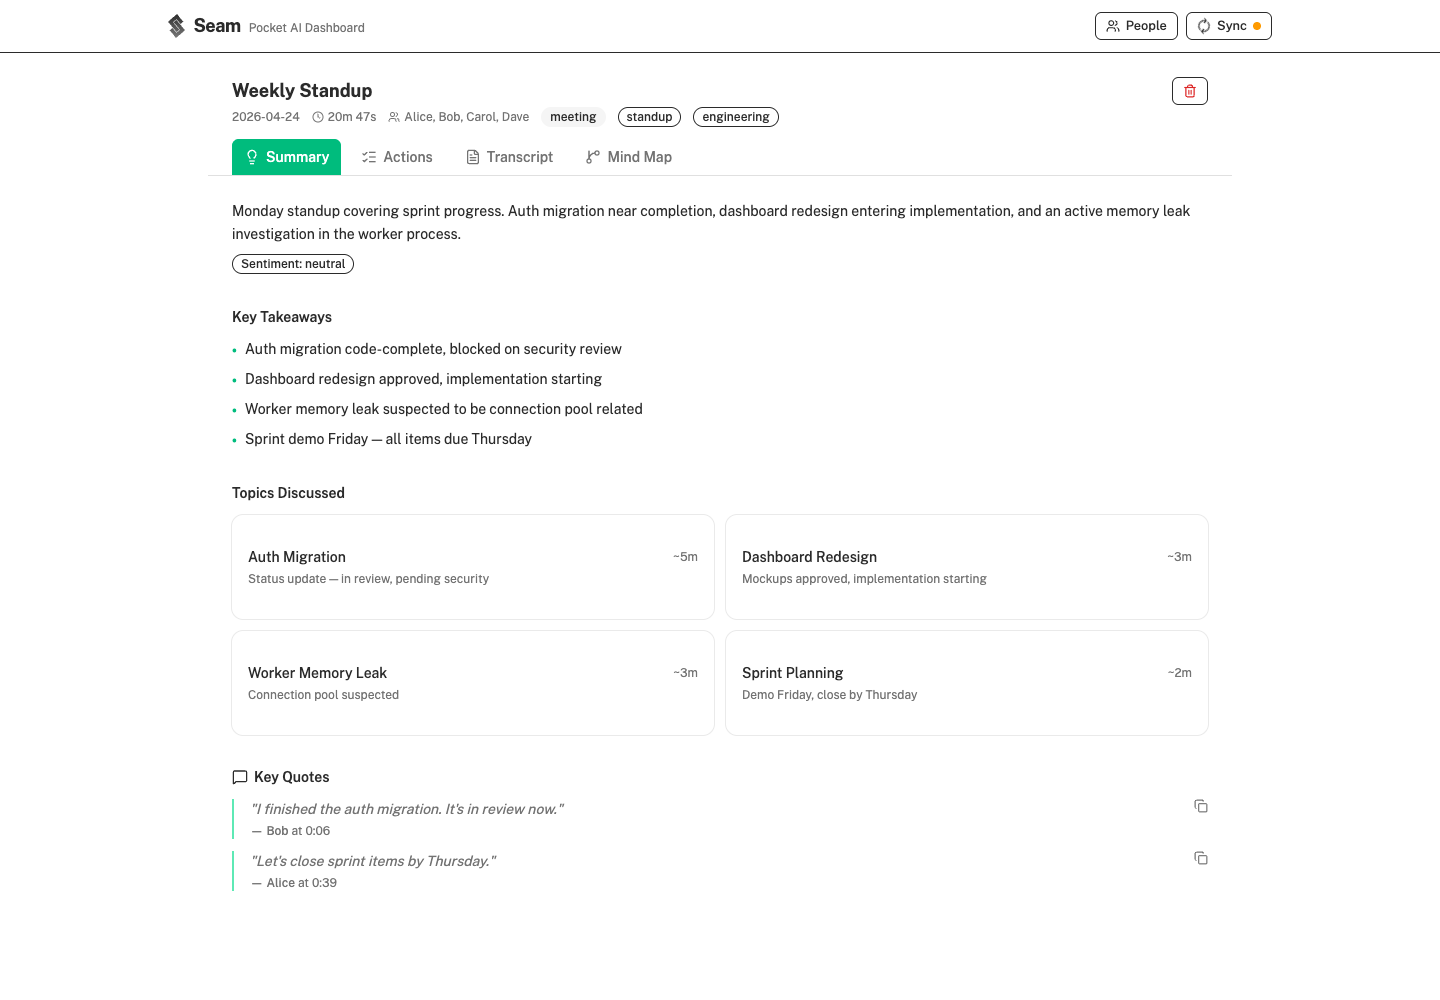
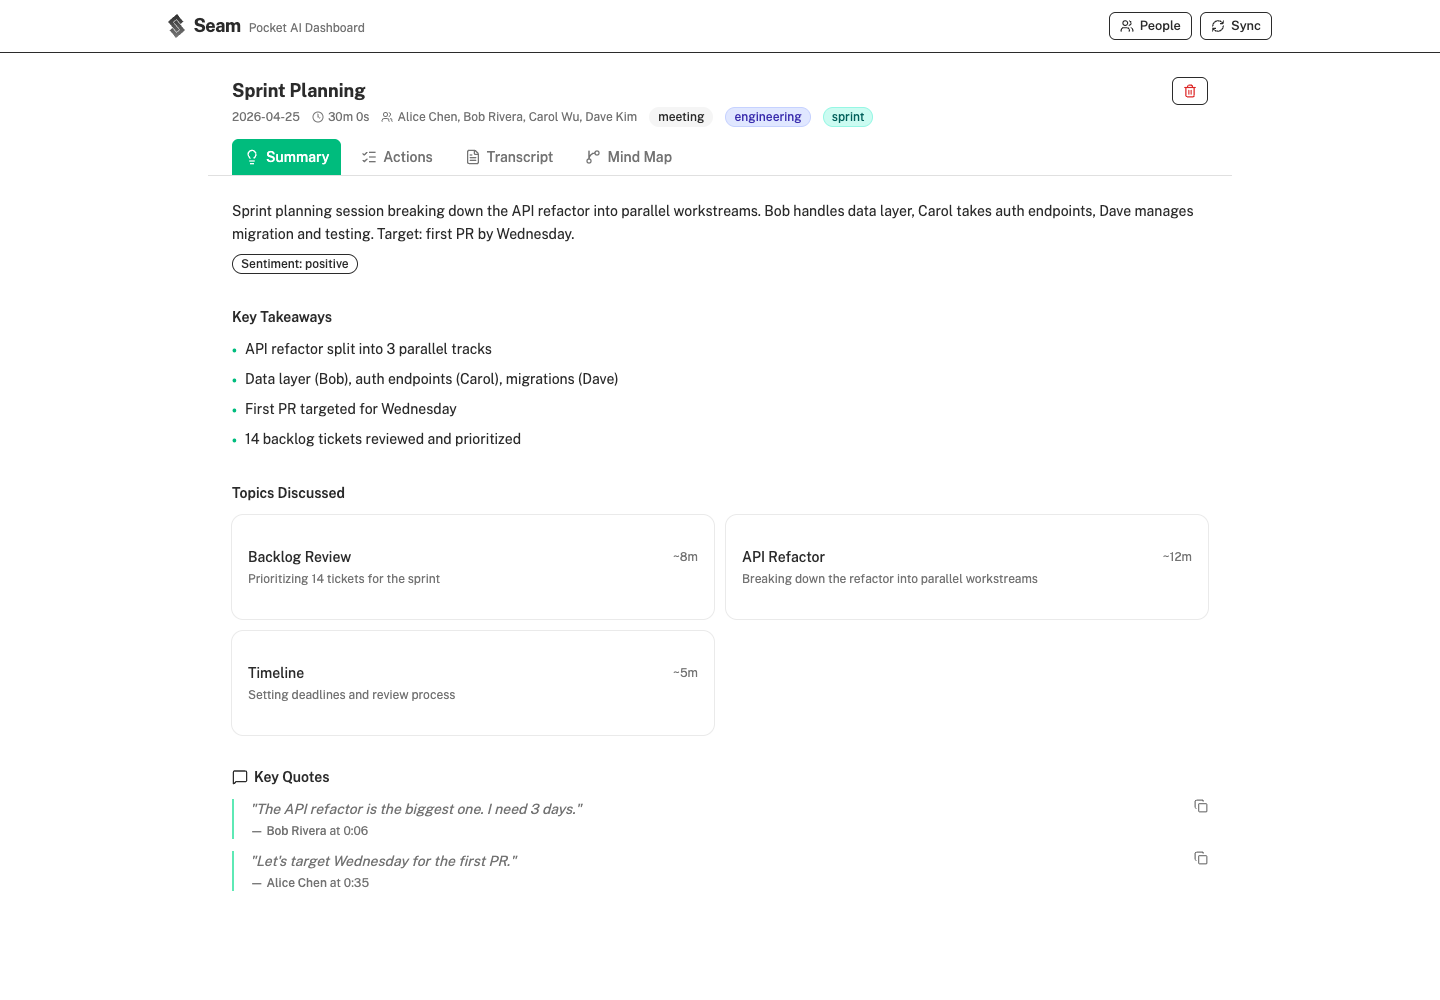
Update screenshots with fake data from clean clone + add People page

diff --git a/README.md b/README.md
@@ -19,6 +19,10 @@
 | ----------------------------------------------------- | ------------------------------------------------ |
 | ![Transcript](docs/screenshots/detail-transcript.png) | ![Mind Map](docs/screenshots/detail-mindmap.png) |
 
+| People                                  |
+| --------------------------------------- |
+| ![People](docs/screenshots/people.png)  |
+
 ## Features
 
 - **Automatic sync** — pulls recordings from the Pocket API with real-time log streaming
